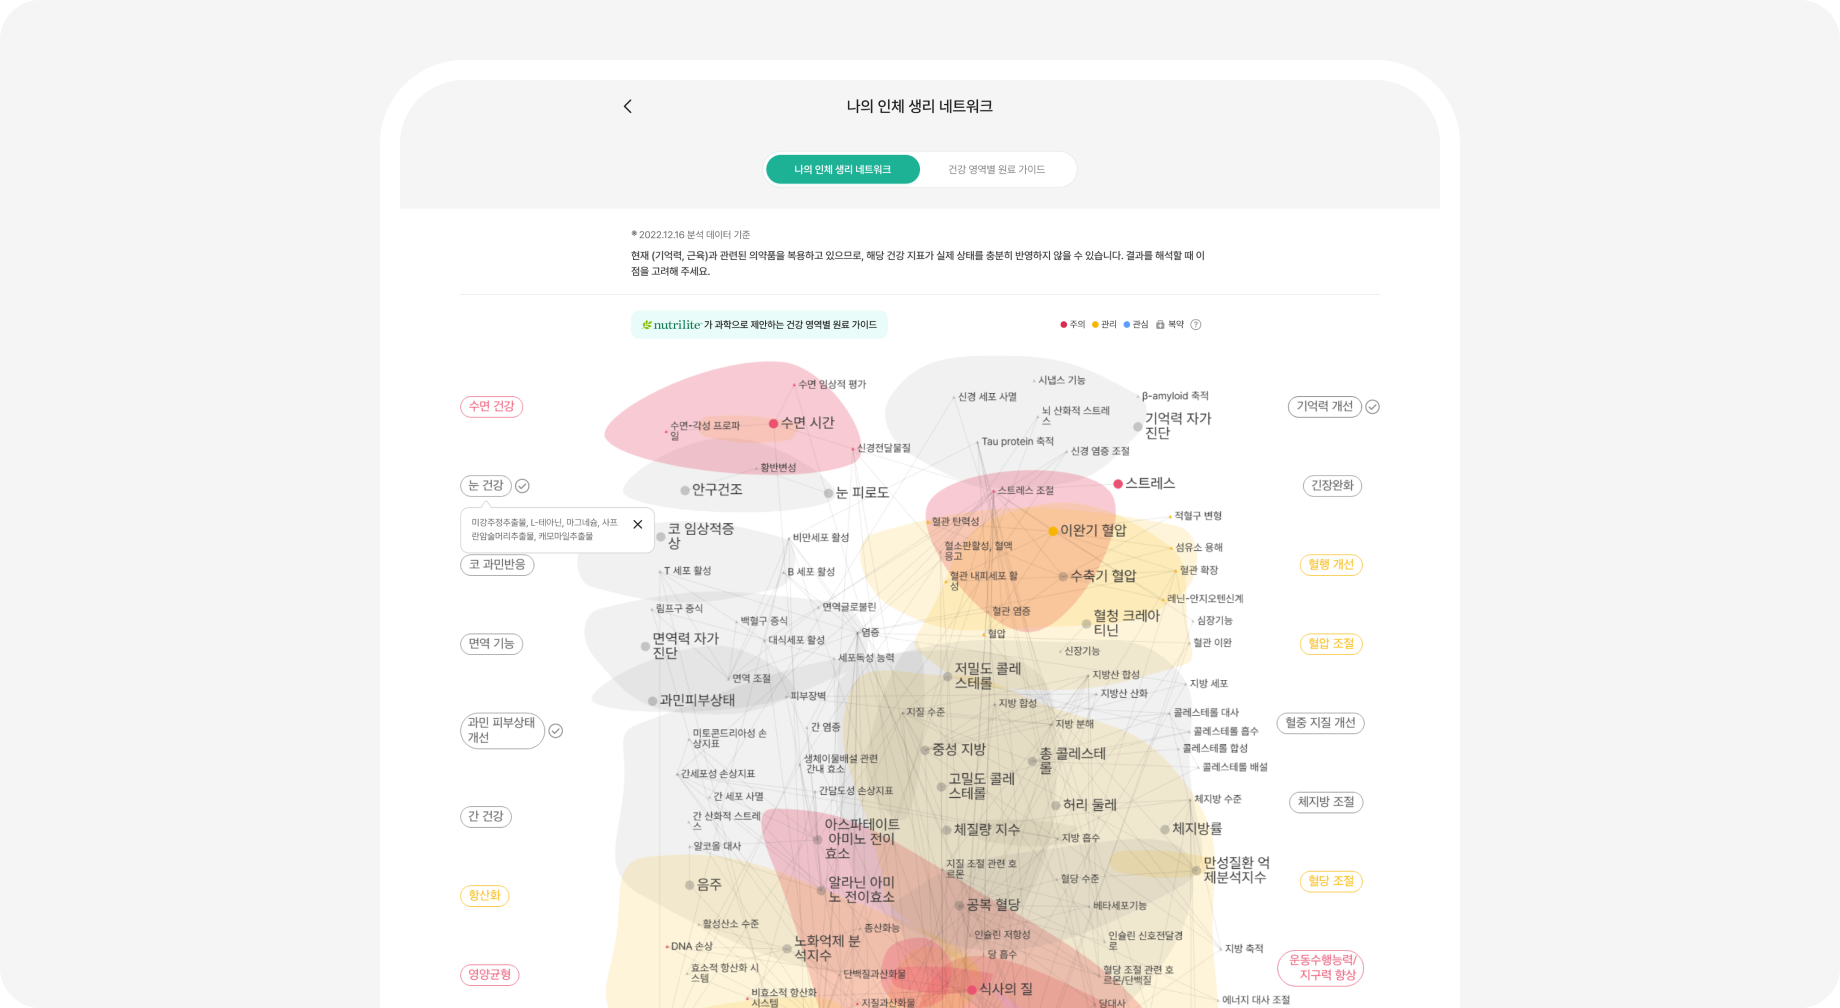
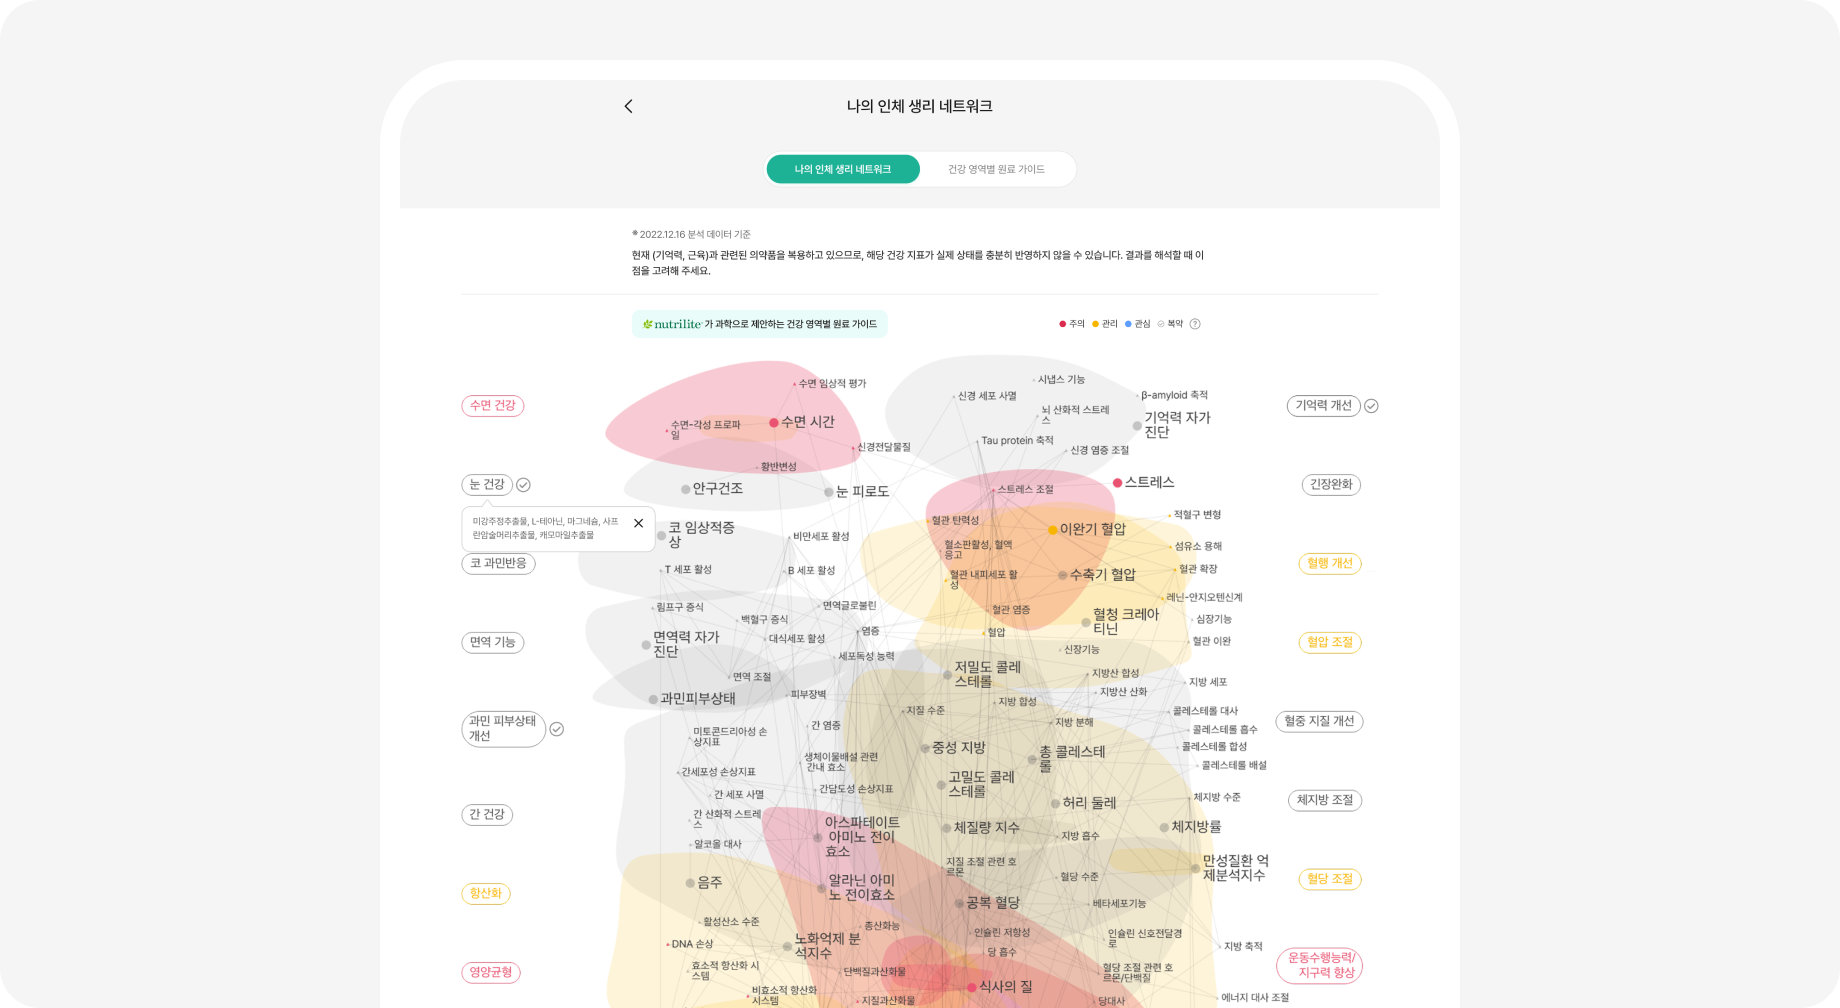
서비스 이용안내 이미지 교체

diff --git a/src/assets/css/default.scss b/src/assets/css/default.scss
@@ -15570,7 +15570,7 @@ $agingIndex: 431px;
           @include txtStyle(caption, xl);
           color: #333;
           padding-left: 1.4rem;
-          &::before{
+          &:not(.legend-medic)::before{
             width: 1rem;
             height: 1rem;
             background-size: 1rem;
@@ -17579,7 +17579,7 @@ $agingIndex: 431px;
     }
     .legend-medic{
       &::before{
-        background: url("/img/ic_medic_grey.svg") no-repeat center center;
+        background: url("/img/ico_check_circle_line.svg") no-repeat center center;
         background-size: 1.2rem;
         width: 1.2rem;
         height: 1.2rem;
